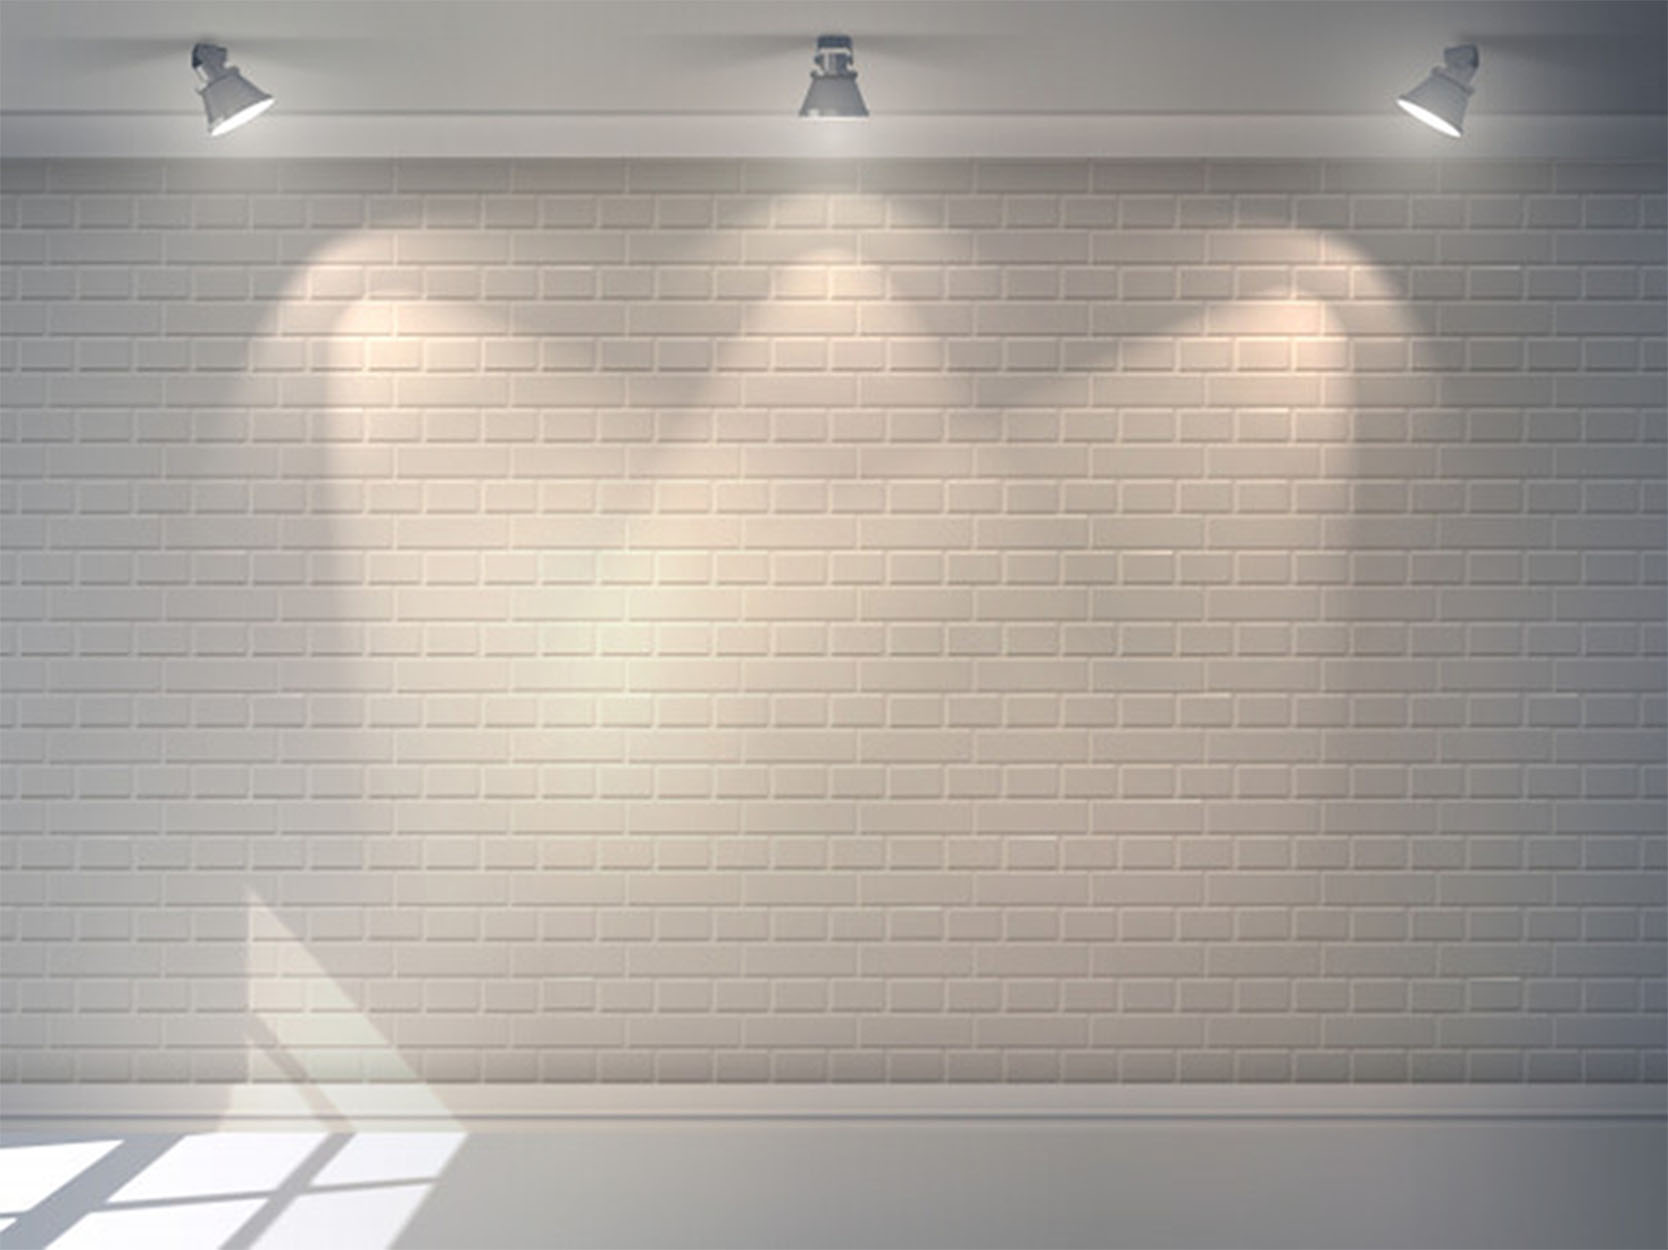
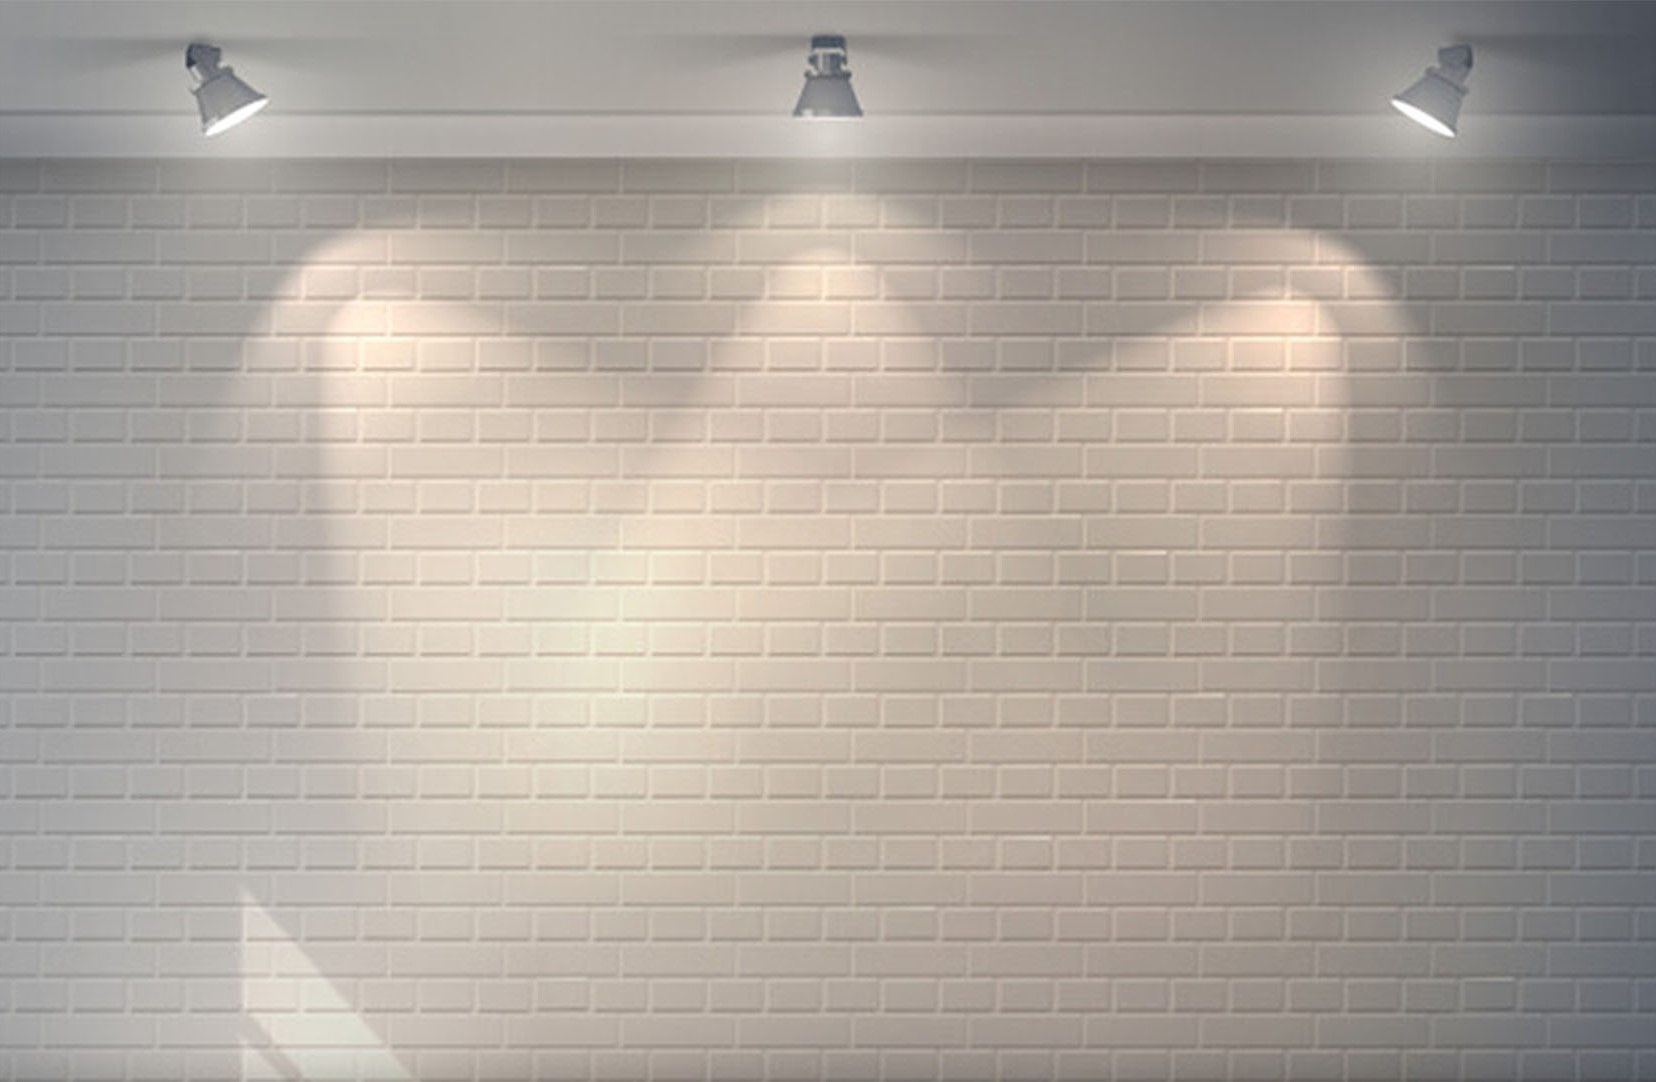
links added to Contact me page

diff --git a/src/containers/ContactMe/ContactMe.js b/src/containers/ContactMe/ContactMe.js
@@ -16,36 +16,36 @@ class ContactMe extends React.Component {
                 </div>
                 <div className="socialIcons mt-4 row">
                     <div className="col-md-3 text-center mt-2">
-                    <a href="mailto:dsaurabh.kumar1288@gmail.com" target="_blank"><i className="fas fa-envelope-open-text circle-icon"></i>
+                    <a className="linkText" href="mailto:dsaurabh.kumar1288@gmail.com" target="_blank"><i className="fas fa-envelope-open-text circle-icon"></i>
                         <p>dsaurabh.kumar1288@gmail.com</p></a>
                     </div>
                     <div className="col-md-3 text-center mt-2">
-                        <i className="fas fa-mobile-alt circle-icon"></i>
-                        <p>Connect me @ 8278276208</p>
+                        <a className="linkText" href="tel:8278276208"><i className="fas fa-mobile-alt circle-icon"></i>
+                        <p>Connect me @ 8278276208</p></a>
                     </div>
                     <div className="col-md-3 text-center mt-2">
-                        <i className="fab fa-twitter circle-icon"></i>
-                        <p>Follow me on twitter</p>
+                        <a className="linkText" href="https://www.linkedin.com/in/saurabh-kumar-193160176" target="_blank"><i className="fab fa-linkedin-in circle-icon"></i>
+                        <p>Be in touch on linkedin</p></a>
                     </div>
                     <div className="col-md-3 text-center mt-2">
-                        <i className="fab fa-facebook-f circle-icon"></i>
-                        <p>Follow me on facebook</p>
+                        <a className="linkText" href="https://www.facebook.com/saurabh.k.dhiman" target="_blank"><i className="fab fa-facebook-f circle-icon"></i>
+                        <p>Follow me on facebook</p></a>
                     </div>
                     <div className="col-md-3 text-center mt-2">
-                        <i className="fab fa-linkedin-in circle-icon"></i>
-                        <p>Be in touch on linkedin</p>
+                        <a className="linkText" href="https://www.instagram.com/dhiman.sunny12" target="_blank"><i className="fab fa-instagram circle-icon"></i>
+                        <p>Follow me on instagram</p></a>
                     </div>
                     <div className="col-md-3 text-center mt-2">
-                        <i className="fab fa-instagram circle-icon"></i>
-                        <p>Follow me on instagram</p>
+                        <a className="linkText" href="https://twitter.com/dhiman_sunny12" target="_blank"><i className="fab fa-twitter circle-icon"></i>
+                        <p>Follow me on twitter</p></a>
                     </div>
                     <div className="col-md-3 text-center mt-2">
-                        <i className="fab fa-whatsapp circle-icon"></i>
-                        <p>Connect with me on whatsapp</p>
+                        <a className="linkText" href="https://wa.me/8278276208"><i className="fab fa-whatsapp circle-icon"></i>
+                        <p>Connect with me on whatsapp</p></a>
                     </div>
                     <div className="col-md-3 text-center mt-2">
-                        <i className="fab fa-skype circle-icon"></i>
-                        <p>Connect with me on skype</p>
+                        <a className="linkText" href="skype:dsaurabh.kumar1288?chat" target="_blank"><i className="fab fa-skype circle-icon"></i>
+                        <p>Connect with me on skype</p></a>
                     </div>
                 </div>
             </div>

diff --git a/src/App.css b/src/App.css
@@ -2,7 +2,7 @@ body {
     background-color: beige;
     box-sizing: border-box;
     font-family: 'Tomorrow', sans-serif !important;
-    /* background-image: url('../src/assets/background-image/background-image.png'); */
+    background-image: url('../src/assets/background-image/brick-wall-realistic.jpg');
     width: 100%;
 }
 h1 {
@@ -21,6 +21,10 @@ h1 {
 }
 .navbar-brand:hover {
     color:wheat;
+}
+.linkText {
+    text-decoration: none;
+    color: black;
 }
 @media (max-width:767px) {
     .navbar-brand {
